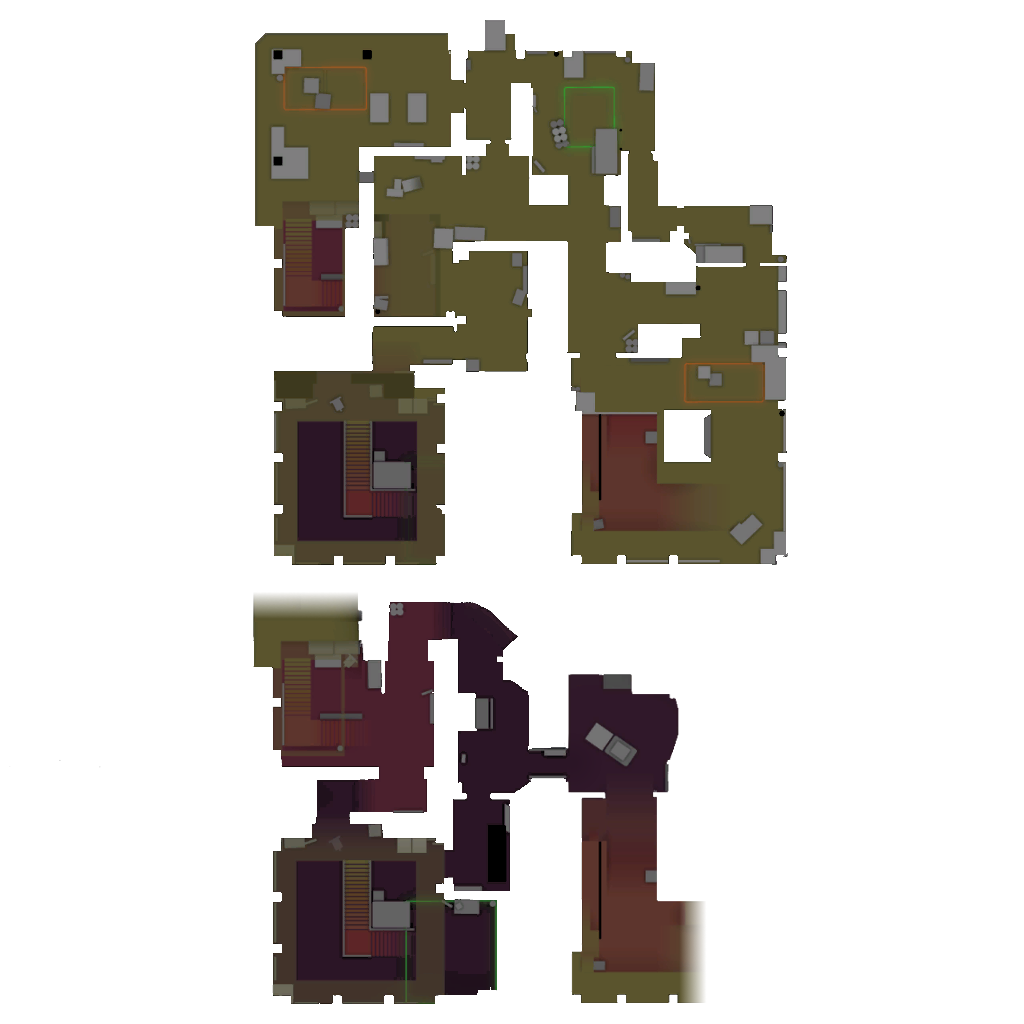
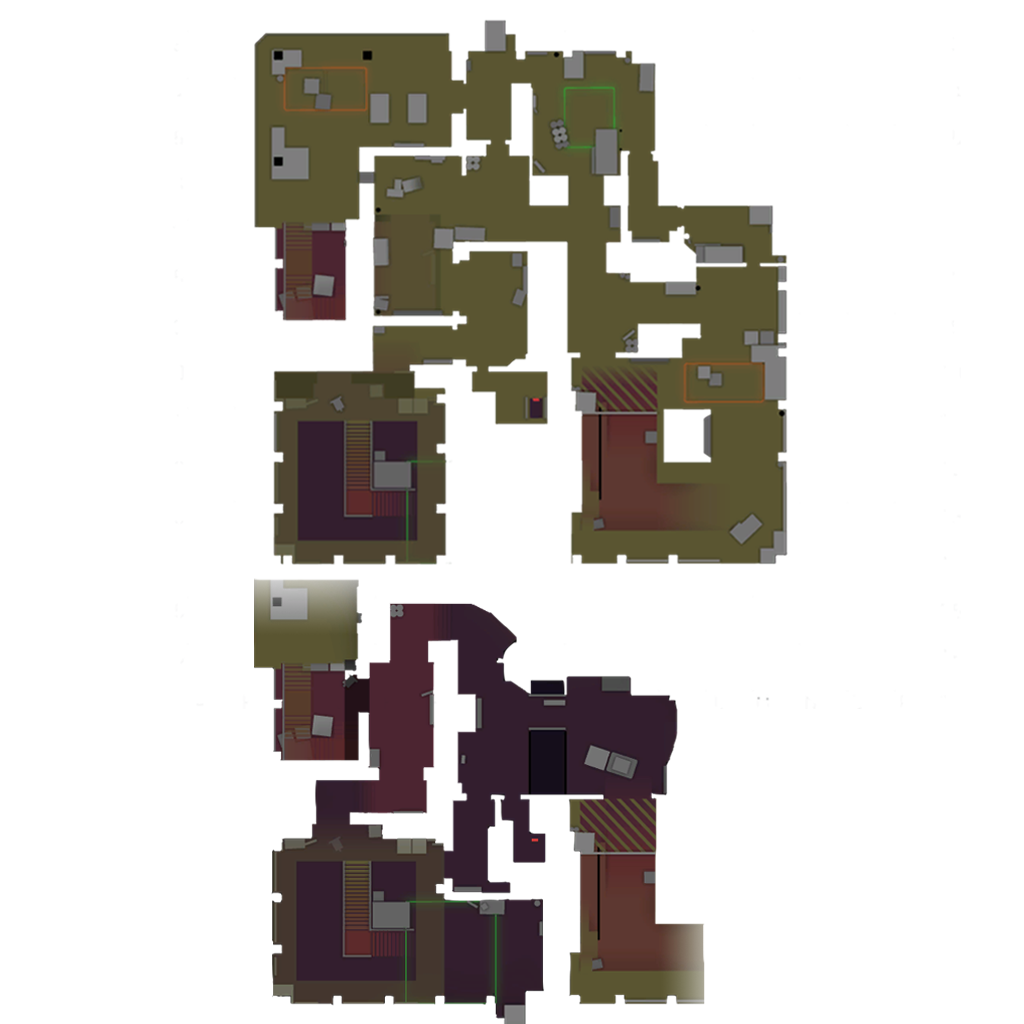
New Feature & de_vertigo Fix
Add incgrenade&molotov feature on radar

Fix offSet on de_vertigo and replace the radar image with the new version de_vertigo

diff --git a/http.js b/http.js
@@ -6,7 +6,7 @@ const remotenades = require("./remotenades.js")
 const host = "localhost"
 
 let oldPhase = false
-
+let infernosOnMap = [] //initial molotov status
 let server = http.createServer(function(req, res) {
 	if (req.method != "POST") {
 		res.writeHead(405)
@@ -111,11 +111,11 @@ let server = http.createServer(function(req, res) {
 				}
 			})
 		}
-
+		
 		if (game.grenades) {
 			let smokes = []
 			let nades = []
-
+			let infernos = []
 			for (let nadeID in game.grenades) {
 				let nade = game.grenades[nadeID]
 
@@ -131,13 +131,45 @@ let server = http.createServer(function(req, res) {
 						}
 					})
 				}
+				if (nade.type == "inferno") {
+					if (!!nade.flames) {
+						let flamesPos = []
+						let flamesNum = Object.values(nade.flames).length
+						for (var i = 0; i < flamesNum; i++) {
+							flamesPos.push({
+								x: parseFloat(Object.values(nade.flames)[i].split(", ")[0]),
+								y: parseFloat(Object.values(nade.flames)[i].split(", ")[1]),
+								z: parseFloat(Object.values(nade.flames)[i].split(", ")[2]),
+							})
+						}
+						infernos.push({
+							id: nadeID,
+							flamesNum: flamesNum,
+							flamesPosition: flamesPos
+						})
+						if (infernosOnMap.indexOf(nadeID) == -1 ) {infernosOnMap.push(nadeID)}
+					}
+					else{
+						
+					}
+				}
 			}
-
+			for (let infernoOnMap of infernosOnMap) {
+				if (!game.grenades[infernoOnMap]) {
+					process.send({
+						type: "infernoRemove",
+						data: infernoOnMap
+					})
+				}// check if molotov exist in game
+			}
 			process.send({
 				type: "smokes",
 				data: smokes
 			})
-
+			process.send({
+				type: "infernos",
+				data: infernos
+			})
 			if (config.nadeCollection) {
 				remotenades.event(game.grenades)
 			}
@@ -148,7 +180,9 @@ let server = http.createServer(function(req, res) {
 				type: "round",
 				data: game.round.phase
 			})
-
+			if (oldPhase == "over" && game.round.phase == "freezetime") {
+					infernosOnMap = [] //clear molotov status every round
+				}
 			if (oldPhase != game.round.phase && config.nadeCollection) {
 				if (oldPhase == "over" && game.round.phase == "freezetime") {
 					remotenades.send()

diff --git a/renderers/smokes.js b/renderers/smokes.js
@@ -3,7 +3,6 @@
 // Shows smokes on map an calculates duration.
 
 let global = require("./_global")
-
 // The live position of all smokes
 global.renderer.on("smokes", (event, smokes) => {
 	// Called to show the fade in animation with a delay
@@ -64,7 +63,45 @@ global.renderer.on("smokes", (event, smokes) => {
 	}
 })
 
+//molotov on radar
+global.renderer.on("infernos", (event, infernos) => {
+	// Go through each smoke
+	for (let inferno of infernos) {
+		// Get the molotov element
+		let infernoElement = document.getElementById("inferno" + inferno.id)
+		let flameElementsStr = ""
+		let flameElement = []
+
+		// If the element does not exist yet, add it
+		if (!infernoElement) {
+			// Create a new element
+			infernoElement = document.createElement("div")
+			infernoElement.id = "inferno" + inferno.id
+			infernoElement.className = "inferno"
+			infernoElement.setAttribute('style', 'opacity:1')
+			document.getElementById("infernos").appendChild(infernoElement)
+			
+		}
+			infernoElement = document.getElementById("inferno" + inferno.id)
+			for (var i = 0; i < inferno.flamesNum; i++) {
+				flameElement[i] = document.createElement("div")
+				flameElement[i].style.height = flameElement[i].style.width = 100 / global.mapData.resolution / 1024 * 100 + "%"
+				let percOffset  = parseFloat(flameElement[i].style.height) / 2
+				flameElement[i].style.left = global.positionToPerc(inferno.flamesPosition[i], "x") + "%"
+				flameElement[i].style.bottom = global.positionToPerc(inferno.flamesPosition[i], "y") - percOffset + "%"
+				flameElementsStr = flameElementsStr + flameElement[i].outerHTML
+			}
+			infernoElement.innerHTML = flameElementsStr
+		
+	}
+
+})
+
+global.renderer.on("infernoRemove", (event,infernoRemove) => {
+	document.getElementById("inferno" + infernoRemove).setAttribute('style', 'opacity:0')
+})
 // Clear all smokes on round reset
 global.renderer.on("roundend", (event) => {
 	document.getElementById("smokes").innerHTML = ""
+	document.getElementById("infernos").innerHTML = ""
 })

diff --git a/style/map.css b/style/map.css
@@ -44,6 +44,36 @@ body {
 	transition: opacity 1.8s;
 }
 
+#infernos{
+	position: absolute;
+	height: 100%;
+	width: 100%;
+	bottom: 0;
+	left: 0;
+	z-index: 2;
+}
+
+.inferno{
+	position: absolute;
+	height: 100%;
+	width: 100%;
+	bottom: 0;
+	left: 0;
+	z-index: 2;
+	transition: opacity .3s;
+}
+
+.inferno > div{
+	position: absolute;
+	border-radius: 100%;
+	opacity: .75;
+	background: #ff4848;
+	box-sizing: border-box;
+	border: #ce3f00 solid 1.5px;
+	transform: translate(-50%, -50%);
+	transition: opacity .3s;
+}
+
 #siteA, #siteB {
 	position: absolute;
 	background: #f00;

diff --git a/html/map.html b/html/map.html
@@ -12,7 +12,7 @@
 			<img id="radar" src="">
 
 			<div id="smokes"></div>
-
+			<div id="infernos"></div>
 			<div id="entities">
 				<div id="siteA"></div>
 				<div id="siteB"></div>
